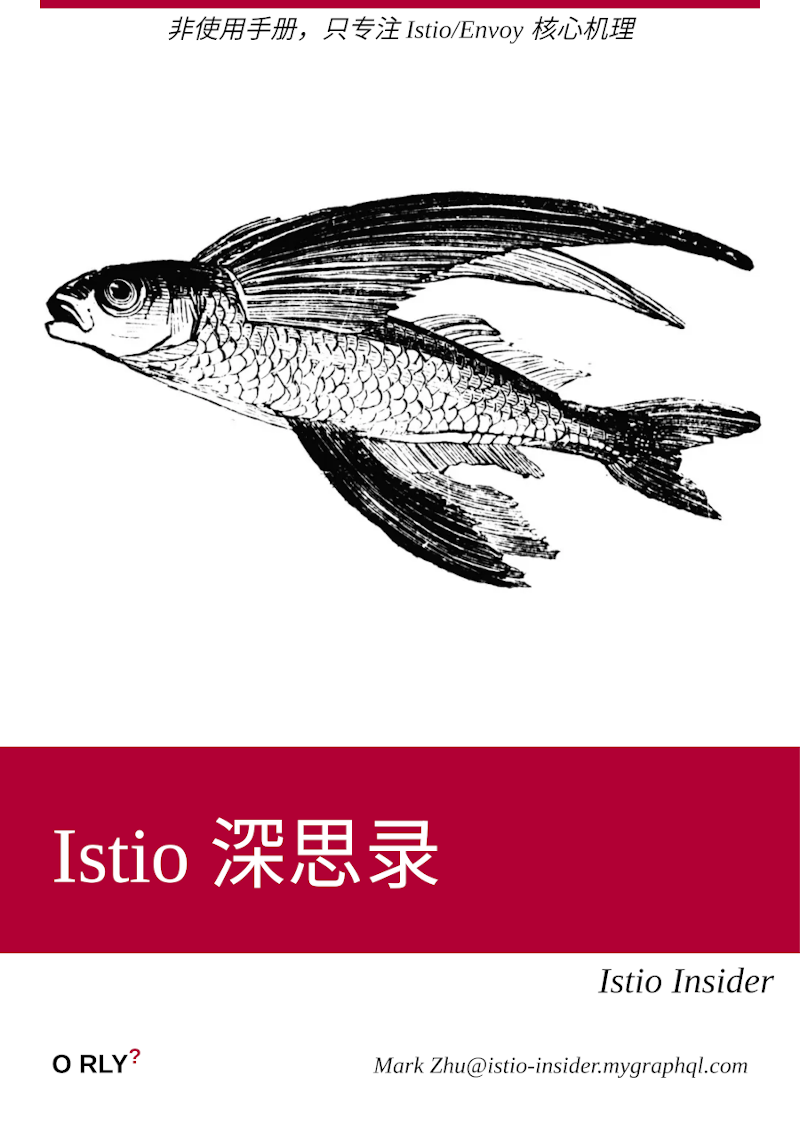
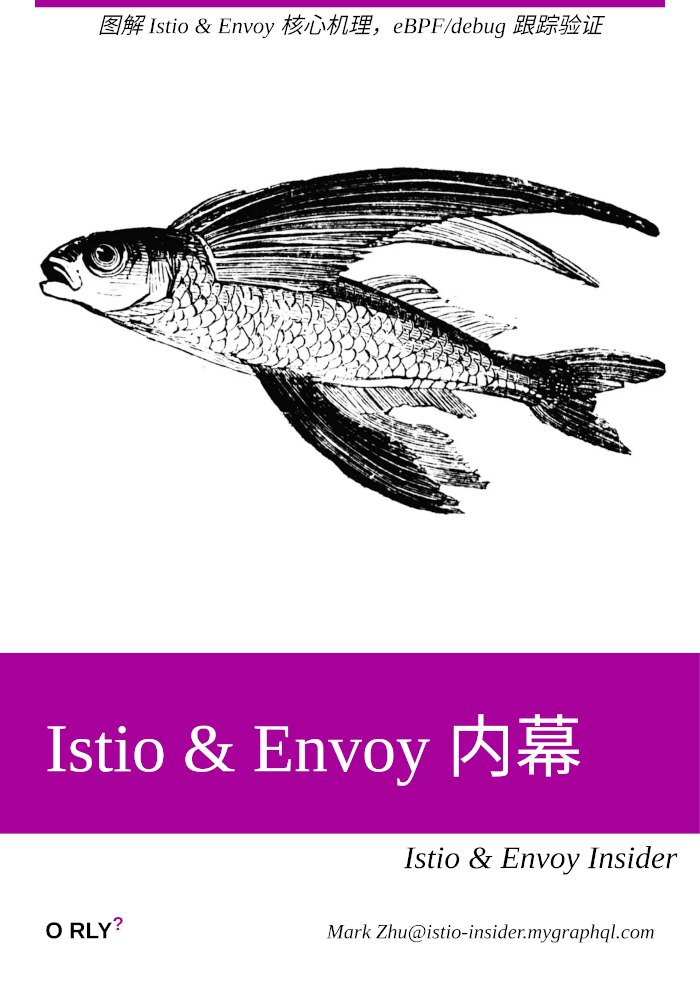
bak

diff --git a/docs/source/index.md b/docs/source/index.md
@@ -1,10 +1,12 @@
 ![Book Cover](./book-cover-800.png)
 
-## 这是一本编写中的书
+## 《Istio 内幕》 简介
 
-这是一本编写中的书，书名叫 《Istio Insider》，中文名为《Istio 深思录》。
+### 这是一本编写中的书
 
-## 本书是什么
+这是一本编写中的书，书名叫 《Istio Insider》，中文名为《Istio 内幕》。
+
+### 本书是什么
 
 “深思录” 表示这里说的，只是在我研究与使用了 Istio 一段时间后，的思考与记录。我不是专家，更不是 Istio Committer。只是排查过一些问题，浏览和 Debug 过一些 Istio/Envoy 的代码。
 
@@ -16,15 +18,17 @@
 - Istio 将来可能是什么样子
 
 
-## 本文不是什么
+### 本文不是什么
 
 写本书的出发点，不是教如何使用 Istio。那些网上已经有太多非常优秀的书、文章、文档了。
 
-## 书的访问地址
-- https://istio-insider.mygraphql.com
-- https://istio-insider.readthedocs.io
-- https://istio-insider.rtfd.io
+### 书的访问地址
+- [https://istio-insider.mygraphql.com](https://istio-insider.mygraphql.com)
+- [https://istio-insider.readthedocs.io](https://istio-insider.readthedocs.io)
+- [https://istio-insider.rtfd.io](https://istio-insider.rtfd.io)
 
 
-## 关于作者
-Blog: https://blog.mygraphql.com/
+### 关于作者
+我叫 Mark Zhu，一个中年且头发少的程序员。
+
+Blog: [https://blog.mygraphql.com/](https://blog.mygraphql.com/)

diff --git a/design/design.md b/design/design.md
@@ -1,10 +1,10 @@
 ## book cover
 
-https://arthurbeaulieu.github.io/ORlyGenerator/
+https://.github.io/ORlyGenerator/
 
 ```
-非使用手册，只专注 Istio/Envoy 核心机理
-Istio 深思录
-Istio Insider
+图解 Istio & Envoy 核心机理，eBPF/debug 跟踪验证
+Istio & Envoy 内幕
+Istio & Envoy Insider
 Mark Zhu@istio-insider.mygraphql.com
 ```
